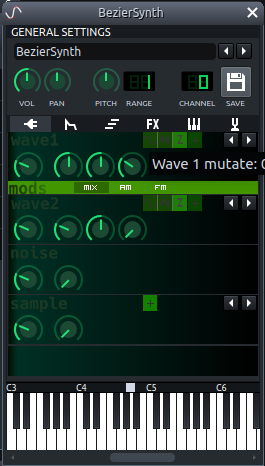
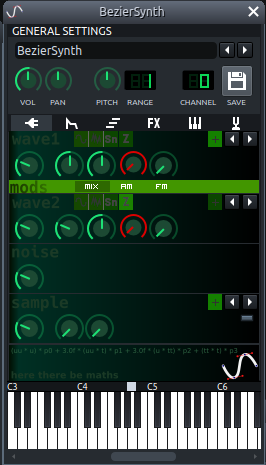
docs

diff --git a/src/core/DuckingController.cpp b/src/core/DuckingController.cpp
@@ -131,6 +131,7 @@ void DuckingController::updateValueBuffer()
 	}
 
 	// Seems to be support for varying amount over the duration of this sample fill (unnesessary for ducking?)
+	// is m_amountModel either single value or buffer, or is m_amountModel.value(); always sane
 	float amount = m_amountModel.value();
 	ValueBuffer *amountBuffer = m_amountModel.valueBuffer();
 	int amountInc = amountBuffer ? 1 : 0;

diff --git a/FORK_README.md b/FORK_README.md
@@ -14,16 +14,16 @@ Open the piano roll
 Turn off Quantizing  
 ![lmms-quantize-off](doc-images/lmms-quantize-off.png)
 
-wire up a midi keyboard hit record, and play on the keyboard.  This fork alo has auto-wiring of a default midi-keyboard, if its detected.
+wire up a midi keyboard hit record, and play on the keyboard.  This fork also has auto-wiring of a default midi-keyboard, if its detected. i.e. when you open piano roll it automatically connects midi input from your keyboard to the instrument.
 
-N.B. Your PC keyboard and midi stack will add latency, no attempt is made to compensate for latency, my setup gives millisecond precision like this. YMMV.
+N.B. Your PC keyboard and midi stack will add some latency, no attempt is made to compensate for latency, my setup gives millisecond precision like this. YMMV.
 
 Notes are recorded with their midi position and the offset from that position, you can move notes around, and they keep their offsets but this makes very little sense.  If you move notes around you probably want to remove the offset for the note you are moving Quantize >> Remove groove.  
-You can make very subtle movements in the position of notes in Piano roll after recording with Quantize >> Nudge forward and Quantize >> Nudge back
+You can make very subtle movements in the position of notes in Piano roll after recording with Quantize >> Nudge forward and Quantize >> Nudge back.
 
 ![lmms-quantize-menu](doc-images/lmms-quantize-menu.png)
 
-N.B. changing BPM a lot after recording, will probably not behave as expected.
+N.B. changing BPM a lot after recording with groove, or applying groove, will probably not behave as expected, since offsets are not adjusted when you change BPM.
 
 
 ## Groove quantizing
@@ -55,6 +55,8 @@ As with recordings made without quantizing , groove quantization behave weirdly 
 
 Swing algorithms in this fork only support 4/4 time signature.
 
+Its impossible to write groovy/funky music like UK garage in LMMS without this level of timing control, and with groove quantizing its a synch.
+
 
 ## Humanize
 
@@ -81,16 +83,16 @@ N.B. if you select 3 notes, i.e. to create triplets, or 4, these will be precise
     * Alt + W set notes as regular
     * Alt + S selects all sub notes
     * Alt + N selctes all normal notes
-* AudioFileProcessor - has next/prev for quickly trying out different drum samples.
+* AudioFileProcessor - has next/prev for quickly trying out different drum samples in the context of the track you are writing.
 * Triple Oscilator - has next/prev for source wavs
     * also supports a single bezier wave oscilator.
-* Voxpop - sampler instrument designed for playing voice samples
+* Voxpop - sampler instrument designed specifically for playing voice samples
     * playback from different places in the sample
     * pitch and/or time stretch
     * playback points (cue sheet) edited in Audacity (save labels as a .txt file)
 * Xone - Allen & Heath mixer style LPF effect
 * Ability to save and load presents for all LMMS effects.
-* Export improvements
+* Export improvements - collectivly these mean I can type Ctrl+E and render and publish a tune directly to the Internet with no need for post processing.
     * Ctrl + E to export without popups (using configured defaults)
     * Ctrl + B to bounce selected clips to loop file
     * Saving meta data to MP3 / Ogg / Wav files, e.g. title, author, genre
@@ -100,14 +102,18 @@ N.B. if you select 3 notes, i.e. to create triplets, or 4, these will be precise
 * TCO changes
     * double a clips length
     * index selected clips e.g.  bd1 bd2 bd3 bd4
-    * fade in & fade out notes in a clip, without an automation track!
+    * fade in & fade out all notes in a clip, without an automation track!
+    * fade in & fade out selected notes in piano roll
     * create flams and 2 types of sequenced echos
-    * fade in and fade out also available for selected notes inthe piano roll
 * Ducking controller
-	* A smooth advanced sidechain, using crazy bezier math
+	* A smooth advanced sidechain, using crazy bezier math, essential for pumping beats without an automation track
+	* Fader riding (essentially slow slight ducking) for HH lines over 1, 2 or 4 bars, without an automation track
 * Physical Midi Controller
-    * Use a phsical midi controller to navigate in LMMS
-* Tap reverb plaugin, has text telling you what reverb you are using.
+    * Use a physical midi controller to navigate in LMMS 
+* Tap reverb plugin, has text telling you what reverb you are using
+* Bezier Synth
+	* A new type of synth using different math to create sound waves
+	* Enables sound mutation of the wave form as its played
 
 ## Directory selector
 
@@ -119,8 +125,8 @@ N.B. if you select 3 notes, i.e. to create triplets, or 4, these will be precise
 
 ![voxpop](doc-images/voxpop.png)
 
-Makes playing a single sample with words or phrases that you want to sync to the music, a lot easier
-than inporting one sample per word or line, or presyninc whole wav tracks.
+Makes playing a single sample with words or phrases that you want to sync to the music, a lot easier than importing one sample per word or line, or presyncing whole wav tracks.
+Open a vocal sample in Audacity which has multiple words, phrases or an entire song. Mark all the points within the sample you want to play from, import the sample and .txt labels to Voxpop and then in piono roll you can play each point as if it were a single AudioFileProcessor track. e.g. you can import a single sample "I want words on the beat" and play it as  I .. want .. words .. on .. the .. beat, where each word is triggered individually.  Supports pitch, reverse and stutter effects, for each work / trigger.
 
 ## BezierSynth
 
@@ -133,6 +139,8 @@ Each wave has a modulation algo, so you can twiddle a knob and mutate the sound 
 
 ![svg-editor](doc-images/inkscape-sound-editor.png)
 
+The above image is a screen shot of inkscape of an importable .wave.svg file that can be mutated from a waveform of the black line to a wavefore of the red line as the note plays.  In this case the mutation is from sin to saw, from nasty to nice.  With up to 6 bezier cures per cycle of a sound wave, and two such oscillators per instance, this synth gives incomparable control of waveforms.  AFAIK there is no synth similar on the market.
+
 ## Bezier ducking
 
 Same bezier math used for a ducking controller, gives a tighter, more clubby/punchy duck than using sin waves, or side chaining of kicks.
@@ -141,11 +149,12 @@ Same effect an be achieveed with automation tracks but its fiddly, lots of copy 
 
 ![bezier-ducking](doc-images/bezier-ducking.png)
 
+The same conroller now has a ducking alog specifically for riding hh without automation tracks and lots of copy paste.
+
 ## Xone filter
 
-Crossover filter plus wild (resonance), automatable, and tweaked to sound like the Xone filter that if you are a DJ you will be used to having 
-on DJ mixers.
-Writing electronic musinc without this is painful, I use it a lot. All instruments support this out of the box in LMMS, with a bit of fiddling
+Crossover filter plus wild (resonance), automatable, and tweaked to sound like the Xone filter that if you are a DJ you will be used to having on DJ mixers.
+Writing electronic music without this is painful, I use it a lot. All instruments support this out of the box in LMMS, with a bit of fiddling
 but this plugin enables using it on grouped mixer channers, or even the whole mix, and before or after effects.  Particularly its useful
 to put an expander after the Xone FX so as freq rises volume doens't tail off.
 
@@ -168,16 +177,14 @@ I use a physical midi controller to navitage LMMS instead of trying to remember 
 
 ## Midi keyboard
 
-I have a phsycal midi keyboard that auto wires to the piano roll when even it opens.  No need to fiddle with the assingments.
+I have a phsycal midi keyboard that auto wires to the piano roll when even it opens.  No need to fiddle with the midi assignments.
 I also I have permanent mapping from the mixer rack to a physical midi mixer.
 
 
 ## Sub notes
 
-Ability to write two types of note in the piano roll, main notes and sub notes. N.B these are often called ghost notes but 
-LMMS uses the term for something else. Useful for writing pre-echos that you can then fiddle with as a group.  Especially useful 
-for writing layered notes where one note is placed exactly on top of the other, and it then becomes fiddly to select.
-Enables easily visualising which notes are principal to a melody and which are for skip or emphasis or trill or echo.
+Ability to write two types of note in the piano roll, main notes and sub notes. N.B these are often called ghost notes but LMMS uses the term for something else. Useful for writing pre-echos that you can then fiddle with as a group.  Especially useful for writing layered notes where one note is placed exactly on top of the other, and it then becomes fiddly to select.
+Enables easily visualising which notes are principal to a melody and which are for skip or emphasis or trill, flam or echo.
 Editing in the piano rolls in significantly easier with the ability to instantly select sub notes (Alt+S) and tweak volume of all notes together.
 
 
@@ -185,7 +192,7 @@ Editing in the piano rolls in significantly easier with the ability to instantly
 
 ## Ideal eq curve is draw on to the spectrum analiser
  
-This making it easy to see visually when some frequencies are missing, while mixing.  Its a fully opinionated curve obviously. based on averaging some eq curves of mastered tracks released on Beatport.  As good a reference as any for electronic music.
+This making it easy to see visually when some frequencies are missing, while mixing.  Its a fully opinionated curve obviously. It is based on averaging some eq curves of mastered tracks released on Beatport.  As good a reference as any for electronic music.
 
 
 ![sub-notes](doc-images/ideal-eq-curve.png)
